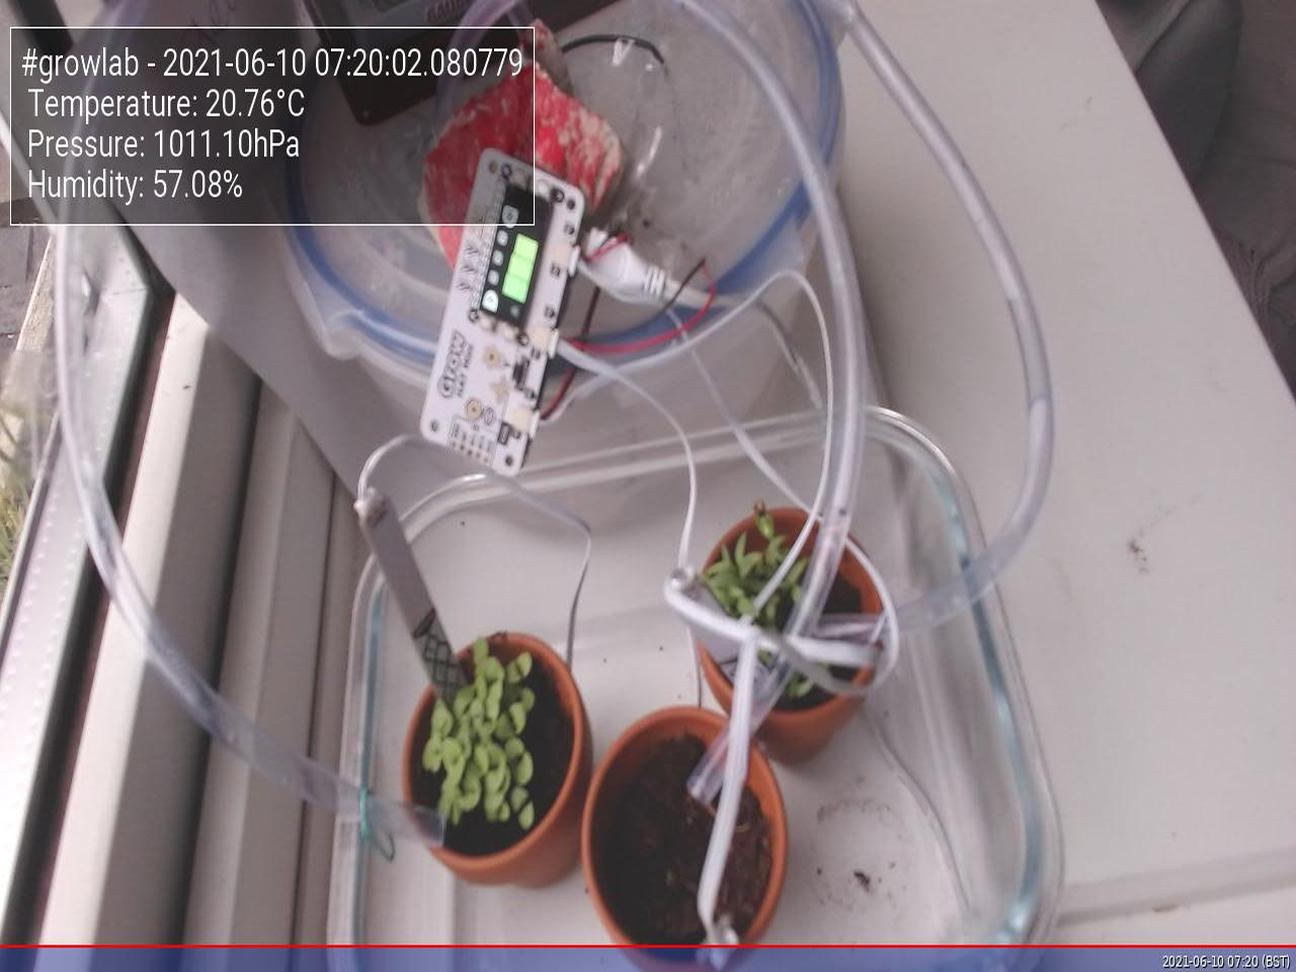
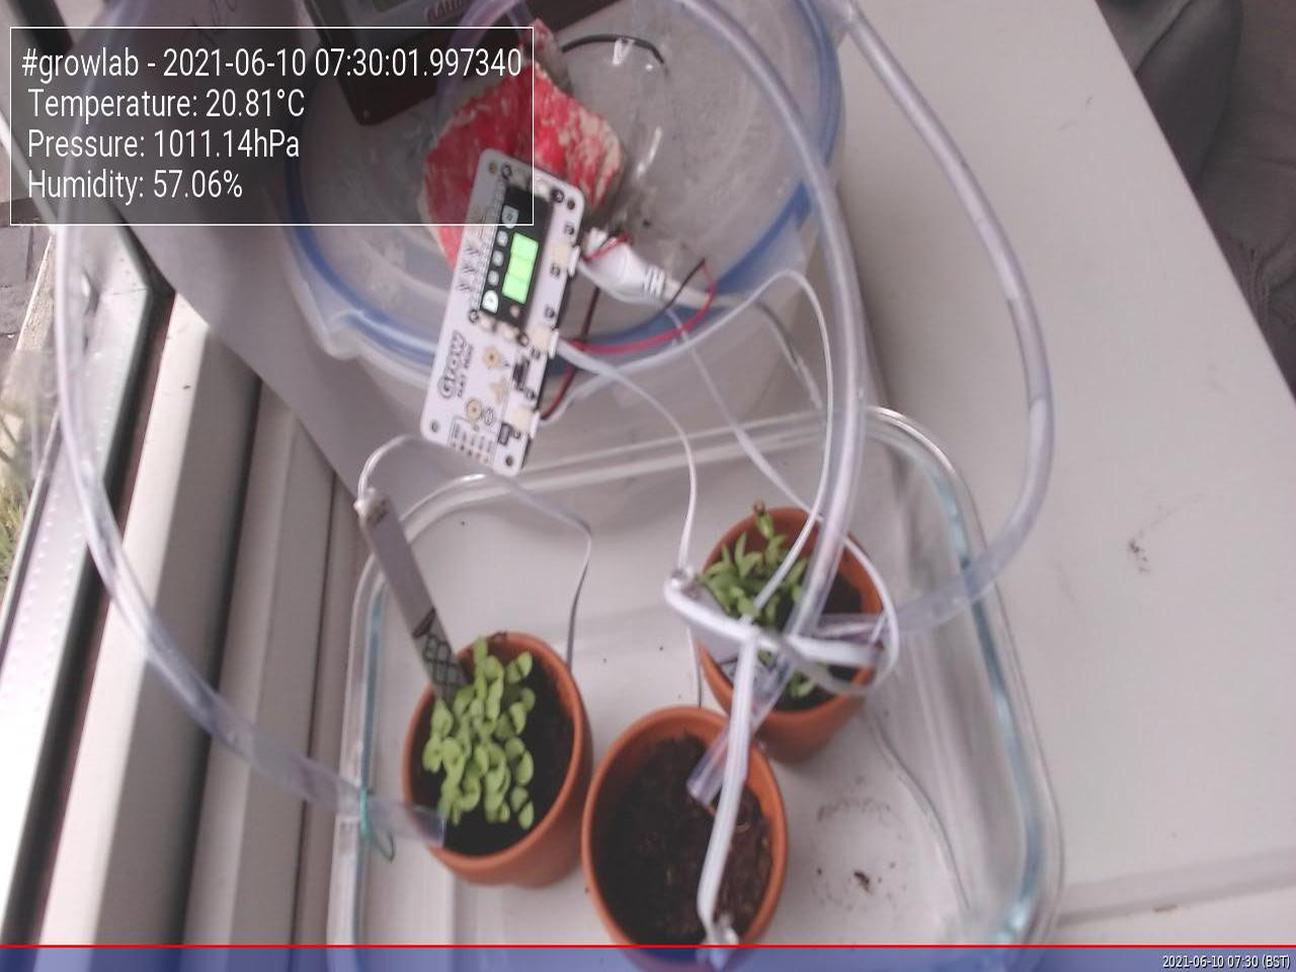
Update images at Thu 10 Jun 07:30:05 BST 2021

diff --git a/app/docs/index.html b/app/docs/index.html
@@ -47,19 +47,19 @@
                         <tbody>
                             <tr>
                                 <td>Time</td>
-                                <td>2021-06-10 07:20:02.080779</td>
+                                <td>2021-06-10 07:30:01.997340</td>
                             </tr>
                             <tr>
                                 <td>Temperature</td>
-                                <td>20.76°C</td>
+                                <td>20.81°C</td>
                             </tr>
                             <tr>
                                 <td>Humidity</td>
-                                <td>57.08%</td>
+                                <td>57.06%</td>
                             </tr>
                             <tr>
                                 <td>Pressure</td>
-                                <td>1011.10hPa</td>
+                                <td>1011.14hPa</td>
                             </tr>
                         </tbody>
                     </table>
@@ -67,7 +67,7 @@
 
                 <h5>Latest image</h5>
                 <div style="width: 85%;">
-                            <img class="figure-img img-fluid rounded" src="./preview.jpg?uid=1623306005.8524377">
+                            <img class="figure-img img-fluid rounded" src="./preview.jpg?uid=1623306605.764192">
                 </div>
             </div>
         </div>
